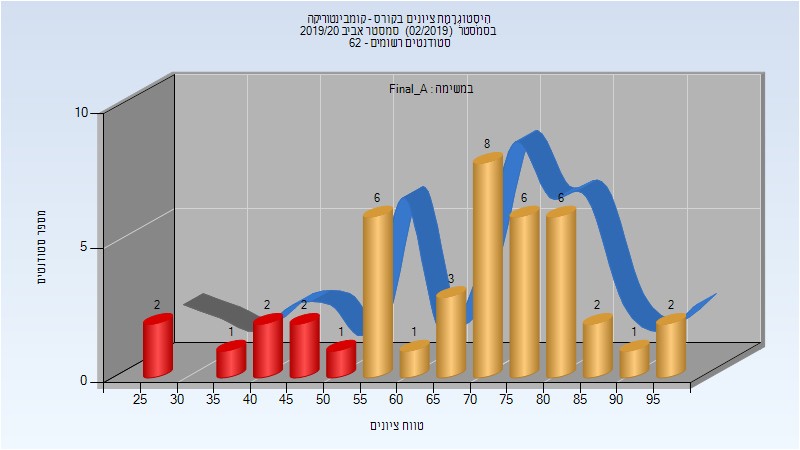
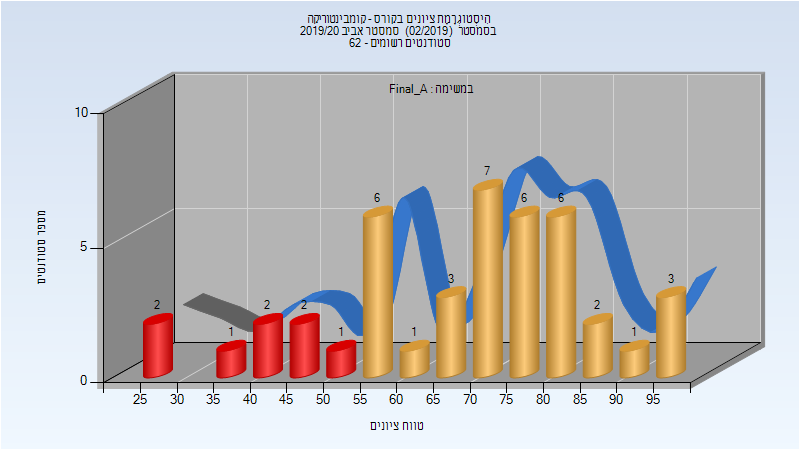
Deploy michael-maltsev/technion-histograms to github.com/michael-maltsev/technion-histograms.git:gh-pages

Changed region(s): [[0.5938, 0.28, 0.7188, 0.4667], [0.8125, 0.5911, 0.9062, 0.7467]]

diff --git a/104286/index.html b/104286/index.html
@@ -829,7 +829,33 @@
 <td>81</td>
 <td>26</td>
 <td>99</td>
-<td>68.023</td>
+<td>68.442</td>
+<td>71</td>
+</tr>
+</tbody>
+</table>
+<h3>סופי</h3>
+<p><img src="201902/Finals.png" alt="201902 Finals" /></p>
+<table>
+<thead>
+<tr>
+<th>סטודנטים</th>
+<th>עברו/נכשלו</th>
+<th>אחוז עוברים</th>
+<th>ציון מינימלי</th>
+<th>ציון מקסימלי</th>
+<th>ממוצע</th>
+<th>חציון</th>
+</tr>
+</thead>
+<tbody>
+<tr>
+<td>43</td>
+<td>35/8</td>
+<td>81</td>
+<td>26</td>
+<td>99</td>
+<td>68.349</td>
 <td>71</td>
 </tr>
 </tbody>

diff --git a/104286/README.md b/104286/README.md
@@ -259,5 +259,13 @@
 
 | סטודנטים | עברו/נכשלו | אחוז עוברים | ציון מינימלי | ציון מקסימלי | ממוצע | חציון |
 | ---- | ---- | ---- | ---- | ---- | ---- | ---- |
-| 43 | 35/8 | 81 | 26 | 99 | 68.023 | 71 |
+| 43 | 35/8 | 81 | 26 | 99 | 68.442 | 71 |
+
+### סופי
+
+![201902 Finals](201902/Finals.png)
+
+| סטודנטים | עברו/נכשלו | אחוז עוברים | ציון מינימלי | ציון מקסימלי | ממוצע | חציון |
+| ---- | ---- | ---- | ---- | ---- | ---- | ---- |
+| 43 | 35/8 | 81 | 26 | 99 | 68.349 | 71 |
 
